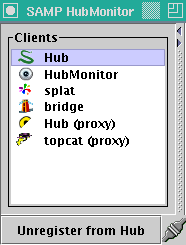
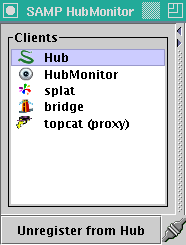
No longer include proxy for hub clients by default
git-svn-id: file:///mbt/data/jsamp/svn-mirror/trunk/astrogrid/samp@26034 d07e2994-6e00-4123-b050-8522f38abc7a

Changed region(s): [[0.2419, 0.4857, 0.6989, 0.6], [0.0806, 0.4571, 0.1613, 0.6]]

diff --git a/src/test/java/org/astrogrid/samp/BridgeTest.java b/src/test/java/org/astrogrid/samp/BridgeTest.java
@@ -108,10 +108,10 @@ public class BridgeTest extends TestCase {
             assertEquals( nhub - 1,
                           connection.getSubscribedClients( ECHO_MTYPE )
                                     .size() );
-            assertEquals( ( nhub - 1 ) * 2 + 2,
+            assertEquals( ( nhub - 1 ) + 2,
                           connection.getRegisteredClients().length );
 
-            assertEquals( ( nhub - 1 ) * 2, getProxyCount( clientMap ) );
+            assertEquals( ( nhub - 1 ), getProxyCount( clientMap ) );
             assertTrue( hasBridge( clientMap ) );
 
             Set srcSet = new HashSet();
